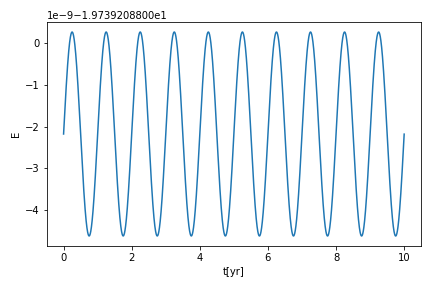
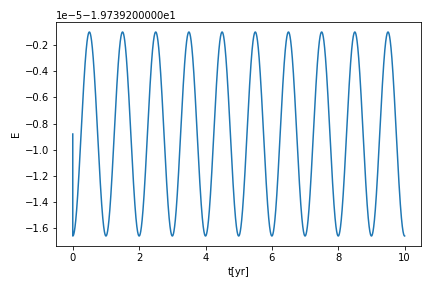
added v[i+1]

diff --git a/doc/pub/week7/html/week7-bs.html b/doc/pub/week7/html/week7-bs.html
@@ -1099,7 +1099,7 @@ Epot[<span style="color: #666666">0</span>] <span style="color: #666666">=</span
     rabs <span style="color: #666666">=</span> sqrt(<span style="color: #008000">sum</span>(r[i<span style="color: #666666">+1</span>]<span style="color: #666666">*</span>r[i<span style="color: #666666">+1</span>]))
     anew <span style="color: #666666">=</span> <span style="color: #666666">-4*</span>(pi<span style="color: #666666">**2</span>)<span style="color: #666666">*</span>r[i<span style="color: #666666">+1</span>]<span style="color: #666666">/</span>(rabs<span style="color: #666666">**3</span>)
     v[i<span style="color: #666666">+1</span>] <span style="color: #666666">=</span> v[i] <span style="color: #666666">+</span> <span style="color: #666666">0.5*</span>DeltaT<span style="color: #666666">*</span>(a<span style="color: #666666">+</span>anew)
-    Ekin[i<span style="color: #666666">+1</span>] <span style="color: #666666">+=</span> <span style="color: #666666">0.5*</span>(<span style="color: #008000">sum</span>(v[i]<span style="color: #666666">*</span>v[i]))
+    Ekin[i<span style="color: #666666">+1</span>] <span style="color: #666666">+=</span> <span style="color: #666666">0.5*</span>(<span style="color: #008000">sum</span>(v[i<span style="color: #666666">+1</span>]<span style="color: #666666">*</span>v[i<span style="color: #666666">+1</span>]))
     Epot[i<span style="color: #666666">+1</span>] <span style="color: #666666">+=</span> <span style="color: #666666">-</span>Fourpi2<span style="color: #666666">/</span>rabs
     t[i<span style="color: #666666">+1</span>] <span style="color: #666666">=</span> t[i] <span style="color: #666666">+</span> DeltaT
 <span style="color: #408080; font-style: italic"># Plot energy as function of time    </span>

diff --git a/doc/pub/week7/html/week7.html b/doc/pub/week7/html/week7.html
@@ -1143,7 +1143,7 @@ Epot[<span style="color: #666666">0</span>] <span style="color: #666666">=</span
     rabs <span style="color: #666666">=</span> sqrt(<span style="color: #008000">sum</span>(r[i<span style="color: #666666">+1</span>]<span style="color: #666666">*</span>r[i<span style="color: #666666">+1</span>]))
     anew <span style="color: #666666">=</span> <span style="color: #666666">-4*</span>(pi<span style="color: #666666">**2</span>)<span style="color: #666666">*</span>r[i<span style="color: #666666">+1</span>]<span style="color: #666666">/</span>(rabs<span style="color: #666666">**3</span>)
     v[i<span style="color: #666666">+1</span>] <span style="color: #666666">=</span> v[i] <span style="color: #666666">+</span> <span style="color: #666666">0.5*</span>DeltaT<span style="color: #666666">*</span>(a<span style="color: #666666">+</span>anew)
-    Ekin[i<span style="color: #666666">+1</span>] <span style="color: #666666">+=</span> <span style="color: #666666">0.5*</span>(<span style="color: #008000">sum</span>(v[i]<span style="color: #666666">*</span>v[i]))
+    Ekin[i<span style="color: #666666">+1</span>] <span style="color: #666666">+=</span> <span style="color: #666666">0.5*</span>(<span style="color: #008000">sum</span>(v[i<span style="color: #666666">+1</span>]<span style="color: #666666">*</span>v[i<span style="color: #666666">+1</span>]))
     Epot[i<span style="color: #666666">+1</span>] <span style="color: #666666">+=</span> <span style="color: #666666">-</span>Fourpi2<span style="color: #666666">/</span>rabs
     t[i<span style="color: #666666">+1</span>] <span style="color: #666666">=</span> t[i] <span style="color: #666666">+</span> DeltaT
 <span style="color: #408080; font-style: italic"># Plot energy as function of time    </span>

diff --git a/doc/pub/week7/html/week7-reveal.html b/doc/pub/week7/html/week7-reveal.html
@@ -1218,7 +1218,7 @@ Epot[<span style="color: #B452CD">0</span>] = -Fourpi2/sqrt(<span style="color: 
     rabs = sqrt(<span style="color: #658b00">sum</span>(r[i+<span style="color: #B452CD">1</span>]*r[i+<span style="color: #B452CD">1</span>]))
     anew = -<span style="color: #B452CD">4</span>*(pi**<span style="color: #B452CD">2</span>)*r[i+<span style="color: #B452CD">1</span>]/(rabs**<span style="color: #B452CD">3</span>)
     v[i+<span style="color: #B452CD">1</span>] = v[i] + <span style="color: #B452CD">0.5</span>*DeltaT*(a+anew)
-    Ekin[i+<span style="color: #B452CD">1</span>] += <span style="color: #B452CD">0.5</span>*(<span style="color: #658b00">sum</span>(v[i]*v[i]))
+    Ekin[i+<span style="color: #B452CD">1</span>] += <span style="color: #B452CD">0.5</span>*(<span style="color: #658b00">sum</span>(v[i+<span style="color: #B452CD">1</span>]*v[i+<span style="color: #B452CD">1</span>]))
     Epot[i+<span style="color: #B452CD">1</span>] += -Fourpi2/rabs
     t[i+<span style="color: #B452CD">1</span>] = t[i] + DeltaT
 <span style="color: #228B22"># Plot energy as function of time    </span>

diff --git a/doc/pub/week7/html/week7-solarized.html b/doc/pub/week7/html/week7-solarized.html
@@ -1066,7 +1066,7 @@ Epot[<span style="color: #B452CD">0</span>] = -Fourpi2/sqrt(<span style="color: 
     rabs = sqrt(<span style="color: #658b00">sum</span>(r[i+<span style="color: #B452CD">1</span>]*r[i+<span style="color: #B452CD">1</span>]))
     anew = -<span style="color: #B452CD">4</span>*(pi**<span style="color: #B452CD">2</span>)*r[i+<span style="color: #B452CD">1</span>]/(rabs**<span style="color: #B452CD">3</span>)
     v[i+<span style="color: #B452CD">1</span>] = v[i] + <span style="color: #B452CD">0.5</span>*DeltaT*(a+anew)
-    Ekin[i+<span style="color: #B452CD">1</span>] += <span style="color: #B452CD">0.5</span>*(<span style="color: #658b00">sum</span>(v[i]*v[i]))
+    Ekin[i+<span style="color: #B452CD">1</span>] += <span style="color: #B452CD">0.5</span>*(<span style="color: #658b00">sum</span>(v[i+<span style="color: #B452CD">1</span>]*v[i+<span style="color: #B452CD">1</span>]))
     Epot[i+<span style="color: #B452CD">1</span>] += -Fourpi2/rabs
     t[i+<span style="color: #B452CD">1</span>] = t[i] + DeltaT
 <span style="color: #228B22"># Plot energy as function of time    </span>
